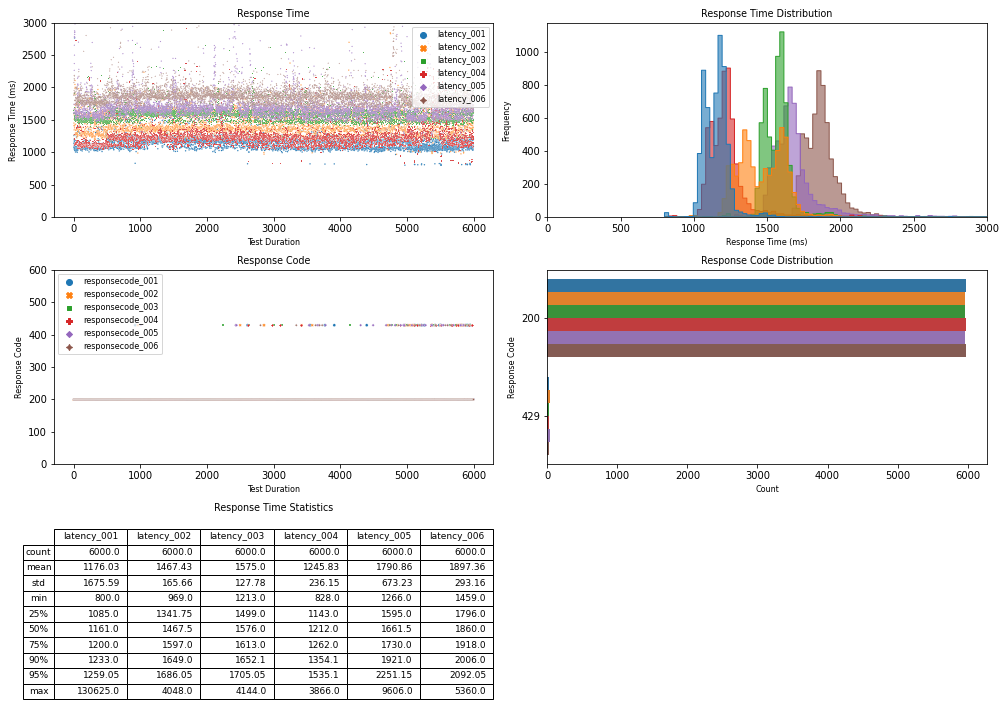
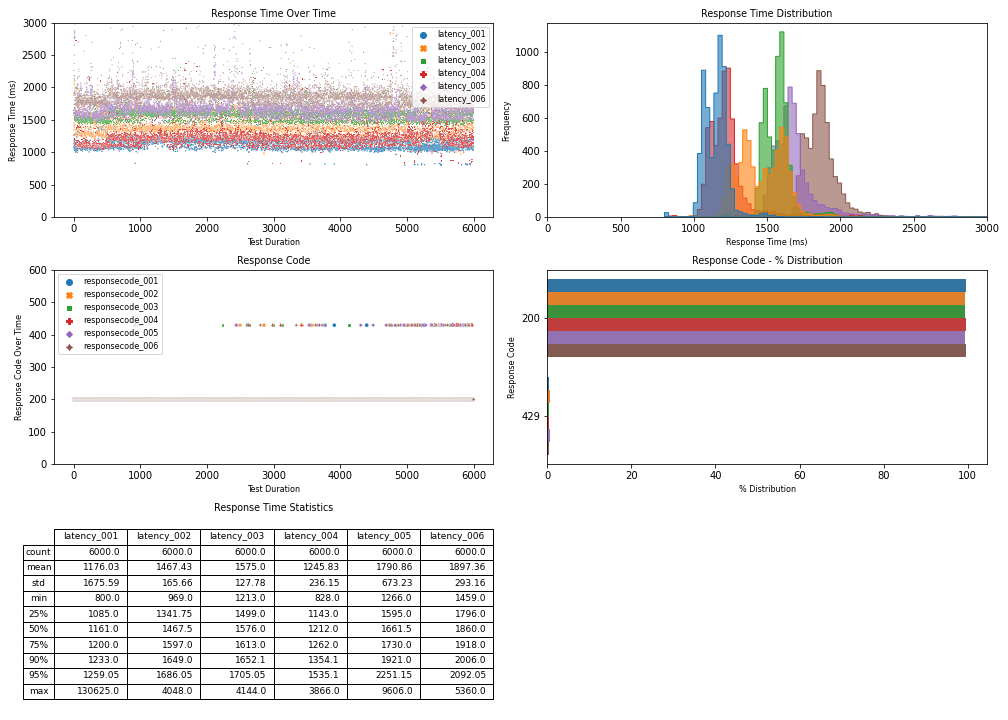
updated multi graphs script

diff --git a/neocortix_jmeter_multi_graphs.py b/neocortix_jmeter_multi_graphs.py
@@ -10,6 +10,7 @@ import matplotlib.pyplot as plt
 import os
 import re
 from collections import Counter
+import numpy as np
 
 import seaborn as sns
 
@@ -78,7 +79,7 @@ def generate_graphs():
         ax = sns.scatterplot(ax=axes[0, 0], data=hist_df, s=2, legend=True)
         ax.set(ylim=(0,3000))
         ax.legend(fontsize='medium')
-        ax.set_title('Response Time')
+        ax.set_title('Response Time Over Time')
         ax.set_xlabel('Test Duration')
         ax.set_ylabel('Response Time (ms)')
         
@@ -107,12 +108,12 @@ def generate_graphs():
         
         #generate response code scatterplot
         hist_df = df.filter(regex='responsecode_')
-        ax = sns.scatterplot(ax=axes[1, 0], data=hist_df, s=8, legend=True)
+        ax = sns.scatterplot(ax=axes[1, 0], data=hist_df, s=15, legend=True)
         ax.set(ylim=(0,600))
         ax.legend(fontsize='medium')
         ax.set_title('Response Code')
         ax.set_xlabel('Test Duration')
-        ax.set_ylabel('Response Code')
+        ax.set_ylabel('Response Code Over Time')
         
         
         #generate response code distribution graph
@@ -124,14 +125,15 @@ def generate_graphs():
                 data = {'name':col, 'response_code':key, 'count':value}
                 bar_df = bar_df.append(data, ignore_index=True)
 
-        #grouped_df = bar_df.groupby(['name', 'response_code']).agg({'count': 'sum'})
-        #percents_df = grouped_df.groupby('name',as_index=False).apply(lambda x: 100 * x / float(x.sum()))
+        grouped_df = bar_df.groupby(['name', 'response_code']).agg({'count': 'sum'})
+        percents_df= np.round(grouped_df.groupby('name').apply(lambda x: 100 * x / float(x.sum())),2).reset_index()
+        
         #ax = sns.barplot(ax=axes[1, 1],data=bar_df,x='response_code', y='count', hue='name' )
-        ax = sns.barplot(ax=axes[1, 1],data=bar_df,x='count', y='response_code', hue='name', orient = 'h' )
+        ax = sns.barplot(ax=axes[1, 1],data=percents_df,x='count', y='response_code', hue='name', orient = 'h' )
         ax.legend_.remove()
         #ax.legend(bbox_to_anchor=(1.05, 1), loc=2, borderaxespad=0.,fontsize='medium')
-        ax.set_title('Response Code Distribution')
-        ax.set_xlabel('Count')
+        ax.set_title('Response Code - % Distribution')
+        ax.set_xlabel('% Distribution')
         ax.set_ylabel('Response Code')
         
         
